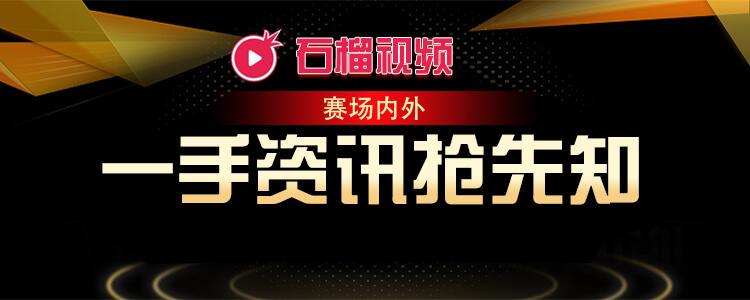
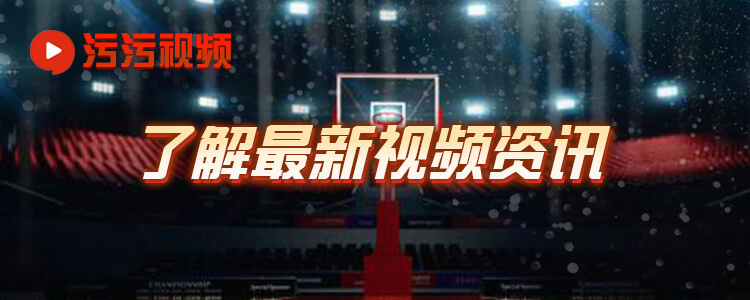
视频模板21提交 污污视频提交

diff --git a/小程序模板/视频模板/videotemplate21/pages/index/index.js b/小程序模板/视频模板/videotemplate21/pages/index/index.js
@@ -149,10 +149,10 @@ Page({
 
   onShow() {
     swan.setPageInfo({
-      title: '石榴视频，在线观看',
-      keywords: '石榴视频，夜色直播，美女直播',
-      description: '石榴视频，在线观看',
-      articleTitle: '石榴视频',
+      title: '污污视频，在线观看。',
+      keywords: '污污视频,成人性视频,体育视频,迷人美女',
+      description: '污污视频，在线观看。',
+      articleTitle: '污污视频',
       releaseDate: "2019-01-02 12:01:30",
       image: [
         "https://c.hiphotos.baidu.com/forum/w%3D480/sign=73c62dda83b1cb133e693d1bed5456da/f33725109313b07e8dee163d02d7912396dd8cfe.jpg",
@@ -239,18 +239,18 @@ Page({
       dataType: "json",
       responseType: "text",
       data: {
-        c: 143,
+        c:160,
         p: page, //第几页
         n: this.number, //每页条数
       },
       success: (res) => {
         this.showHttploading(false);
         let newsArr = [];
-        newsArr.push(res.data.params.data[0].news_title);
-        newsArr.push(res.data.params.data[1].news_title);
-        newsArr.push(res.data.params.data[2].news_title);
-        newsArr.push(res.data.params.data[3].news_title);
-        newsArr.push(res.data.params.data[4].news_title);
+        // newsArr.push(res.data.params.data[0].news_title);
+        // newsArr.push(res.data.params.data[1].news_title);
+        // newsArr.push(res.data.params.data[2].news_title);
+        // newsArr.push(res.data.params.data[3].news_title);
+        // newsArr.push(res.data.params.data[4].news_title);
 
         console.log(res.data);
         let data = res.data.params;
@@ -347,7 +347,7 @@ Page({
             dataType: "json",
             responseType: "text",
             data: {
-              c: 143,
+              c: 160,
               p: machpage, //第几页
               n: n, //每页条数
             },

diff --git a/小程序模板/视频模板/videotemplate21/pages/detail/detail.js b/小程序模板/视频模板/videotemplate21/pages/detail/detail.js
@@ -46,10 +46,10 @@ Page({
           title
         } = this.data
         swan.setPageInfo({
-          title: '石榴视频，在线观看',
-          keywords: '石榴视频，夜色直播，美女直播',
-          description: '石榴视频，在线观看',
-          articleTitle: `${title}-石榴视频`,
+          title: '污污视频，在线观看。',
+          keywords: '污污视频,成人性视频,体育视频,迷人美女',
+          description: '污污视频，在线观看。',
+          articleTitle: `${title}-污污视频`,
           releaseDate: "2019-01-02 12:01:30",
           image: [
             "https://c.hiphotos.baidu.com/forum/w%3D480/sign=73c62dda83b1cb133e693d1bed5456da/f33725109313b07e8dee163d02d7912396dd8cfe.jpg",
@@ -188,10 +188,10 @@ Page({
       success: res => {
         let news_title = res.data.params.news_title
 
-        let newTitle = `${news_title}-石榴视频`
+        let newTitle = `${news_title}-污污视频`
         if (!newTitle) {
           swan.showToast({
-            title: `${news_title}-石榴视频`
+            title: `${news_title}-污污视频`
           });
           return;
         }

diff --git a/小程序模板/视频模板/videotemplate21/pages/web/web.js b/小程序模板/视频模板/videotemplate21/pages/web/web.js
@@ -28,10 +28,10 @@ Page({
   },
   onshow() {
     swan.setPageInfo({
-      title: '石榴视频，在线观看',
-      keywords: '石榴视频，夜色直播，美女直播',
-      description: '石榴视频，在线观看',
-      articleTitle: `石榴视频`,
+      title: '污污视频，在线观看。',
+      keywords: '污污视频,成人性视频,体育视频,迷人美女',
+      description: '污污视频，在线观看。',
+      articleTitle: '污污视频',
       releaseDate: "2019-01-02 12:01:30",
       image: [
         "https://c.hiphotos.baidu.com/forum/w%3D480/sign=73c62dda83b1cb133e693d1bed5456da/f33725109313b07e8dee163d02d7912396dd8cfe.jpg",
@@ -73,7 +73,7 @@ Page({
       responseType: "text",
       data: {
         host: apifrom,
-        c: 143
+        c: 160
       },
       success: res => {
         let { menu } = res.data.params;

diff --git a/小程序模板/视频模板/videotemplate21/app.js b/小程序模板/视频模板/videotemplate21/app.js
@@ -5,8 +5,8 @@
 
 /* globals swan */
 App({
-    api: "https://z5mh2.cn",
-    apifrom:'https://z5mh2.cn',
+    api: "https://1hq61.cn",
+    apifrom:'https://1hq61.cn',
     onLaunch(options) {
         // do something when launch
         // 引导添加，参见文档： http://smartprogram.baidu.com/docs/design/component/guide_add/
